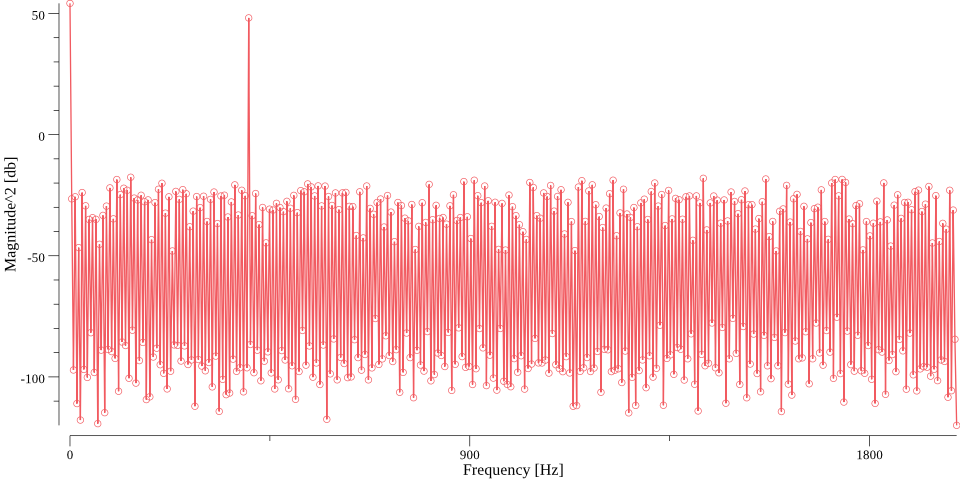
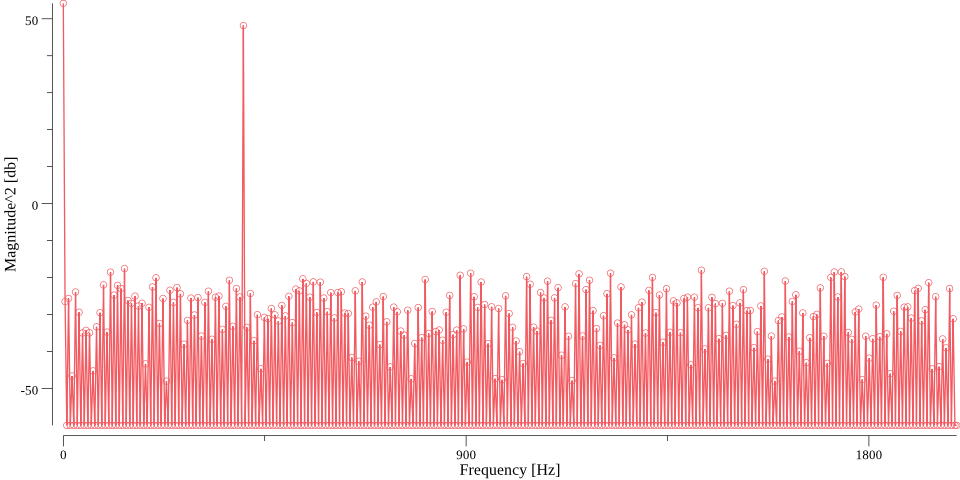
Improve plot scale

diff --git a/main.go b/main.go
@@ -54,7 +54,7 @@ func plotDFT(data [] complex128, fb float64, db bool, file string) {
 	for i, value := range data {
 		v := cmplx.Abs(value)
 		if db {
-			v = 20 * math.Log10(v+1e-6)
+			v = 20 * math.Log10(math.Max(v, 1e-3))
 		}
 		amplitudes[i] = v
 		frequencies[i] = fb * float64(i)
